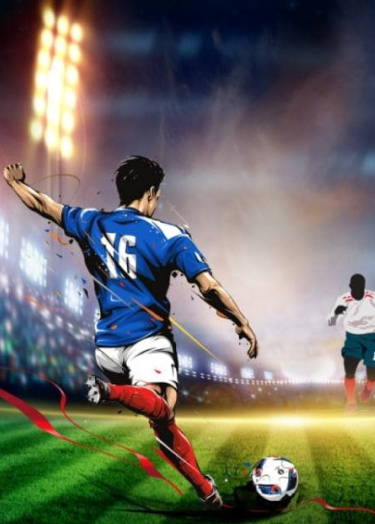
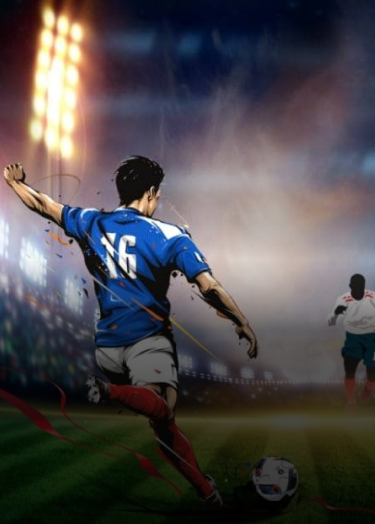
修改背景图以及图片偏移.

diff --git a/src/components/sections/Basic.vue b/src/components/sections/Basic.vue
@@ -154,6 +154,14 @@ export default {};
 }
 
 @media only screen and (max-width: 670px) {
+  .section-container {
+    padding-top: 33px;
+    padding-bottom: 95px;
+    background: url("../../assets/images/basic-background.png");
+    background-size: cover;
+    background-position: right;
+  }
+
   .el-row {
     flex-direction: column;
   }

diff --git a/src/components/sections/Sportsbook.vue b/src/components/sections/Sportsbook.vue
@@ -54,7 +54,7 @@ export default {};
     padding-top: 33px;
     padding-bottom: 30px;
     background: url("../../assets/images/sportsbook-background-mobile.png");
-    background-size: cover;
+    background-size: 100% 100%;
     background-position: center;
   }
 }
